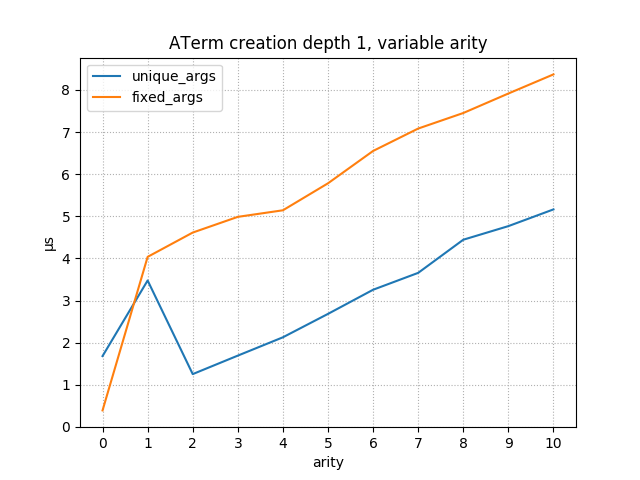
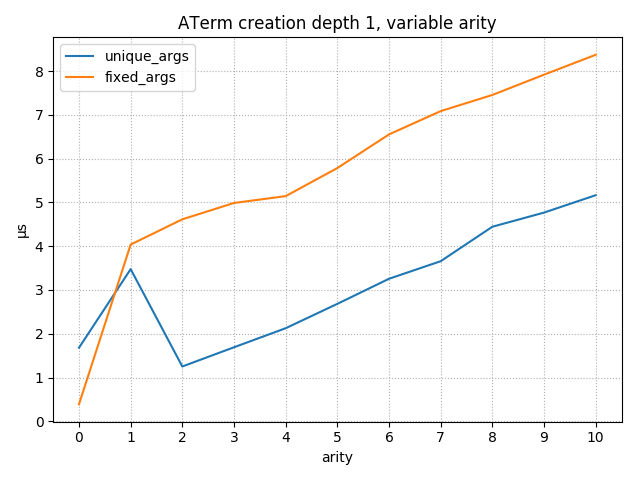
term creation bench small description

diff --git a/benchmarks/atermpp_term_creation/plot.py b/benchmarks/atermpp_term_creation/plot.py
@@ -1,4 +1,7 @@
 import matplotlib.pyplot as plt
+from matplotlib import rcParams
+plt.rcdefaults()
+rcParams.update({'figure.autolayout': True})
 
 unique_args = [1681, 3476, 1253, 1692, 2127, 2683, 3256, 3657, 4444, 4767, 5164]
 unique_args = [t / 1000.0 for t in unique_args]

diff --git a/docs/index.md b/docs/index.md
@@ -37,4 +37,7 @@ TCmalloc and JEmalloc shared libraries are preloaded with the `LD_PRELOAD` mecha
 
 ### Creation of terms with depth 1 and variable arity
 
+We create terms of depth/nesting 1. That is, terms whose arguments are constants.
+e.g f() f(a) f(a,b, ...)
+
 ![term_creation_depth_1_variable_arity](https://raw.githubusercontent.com/gkarlos/mcrl2-perf/master/docs/images/plots/term_creation_depth_1_variable_arity.png)
